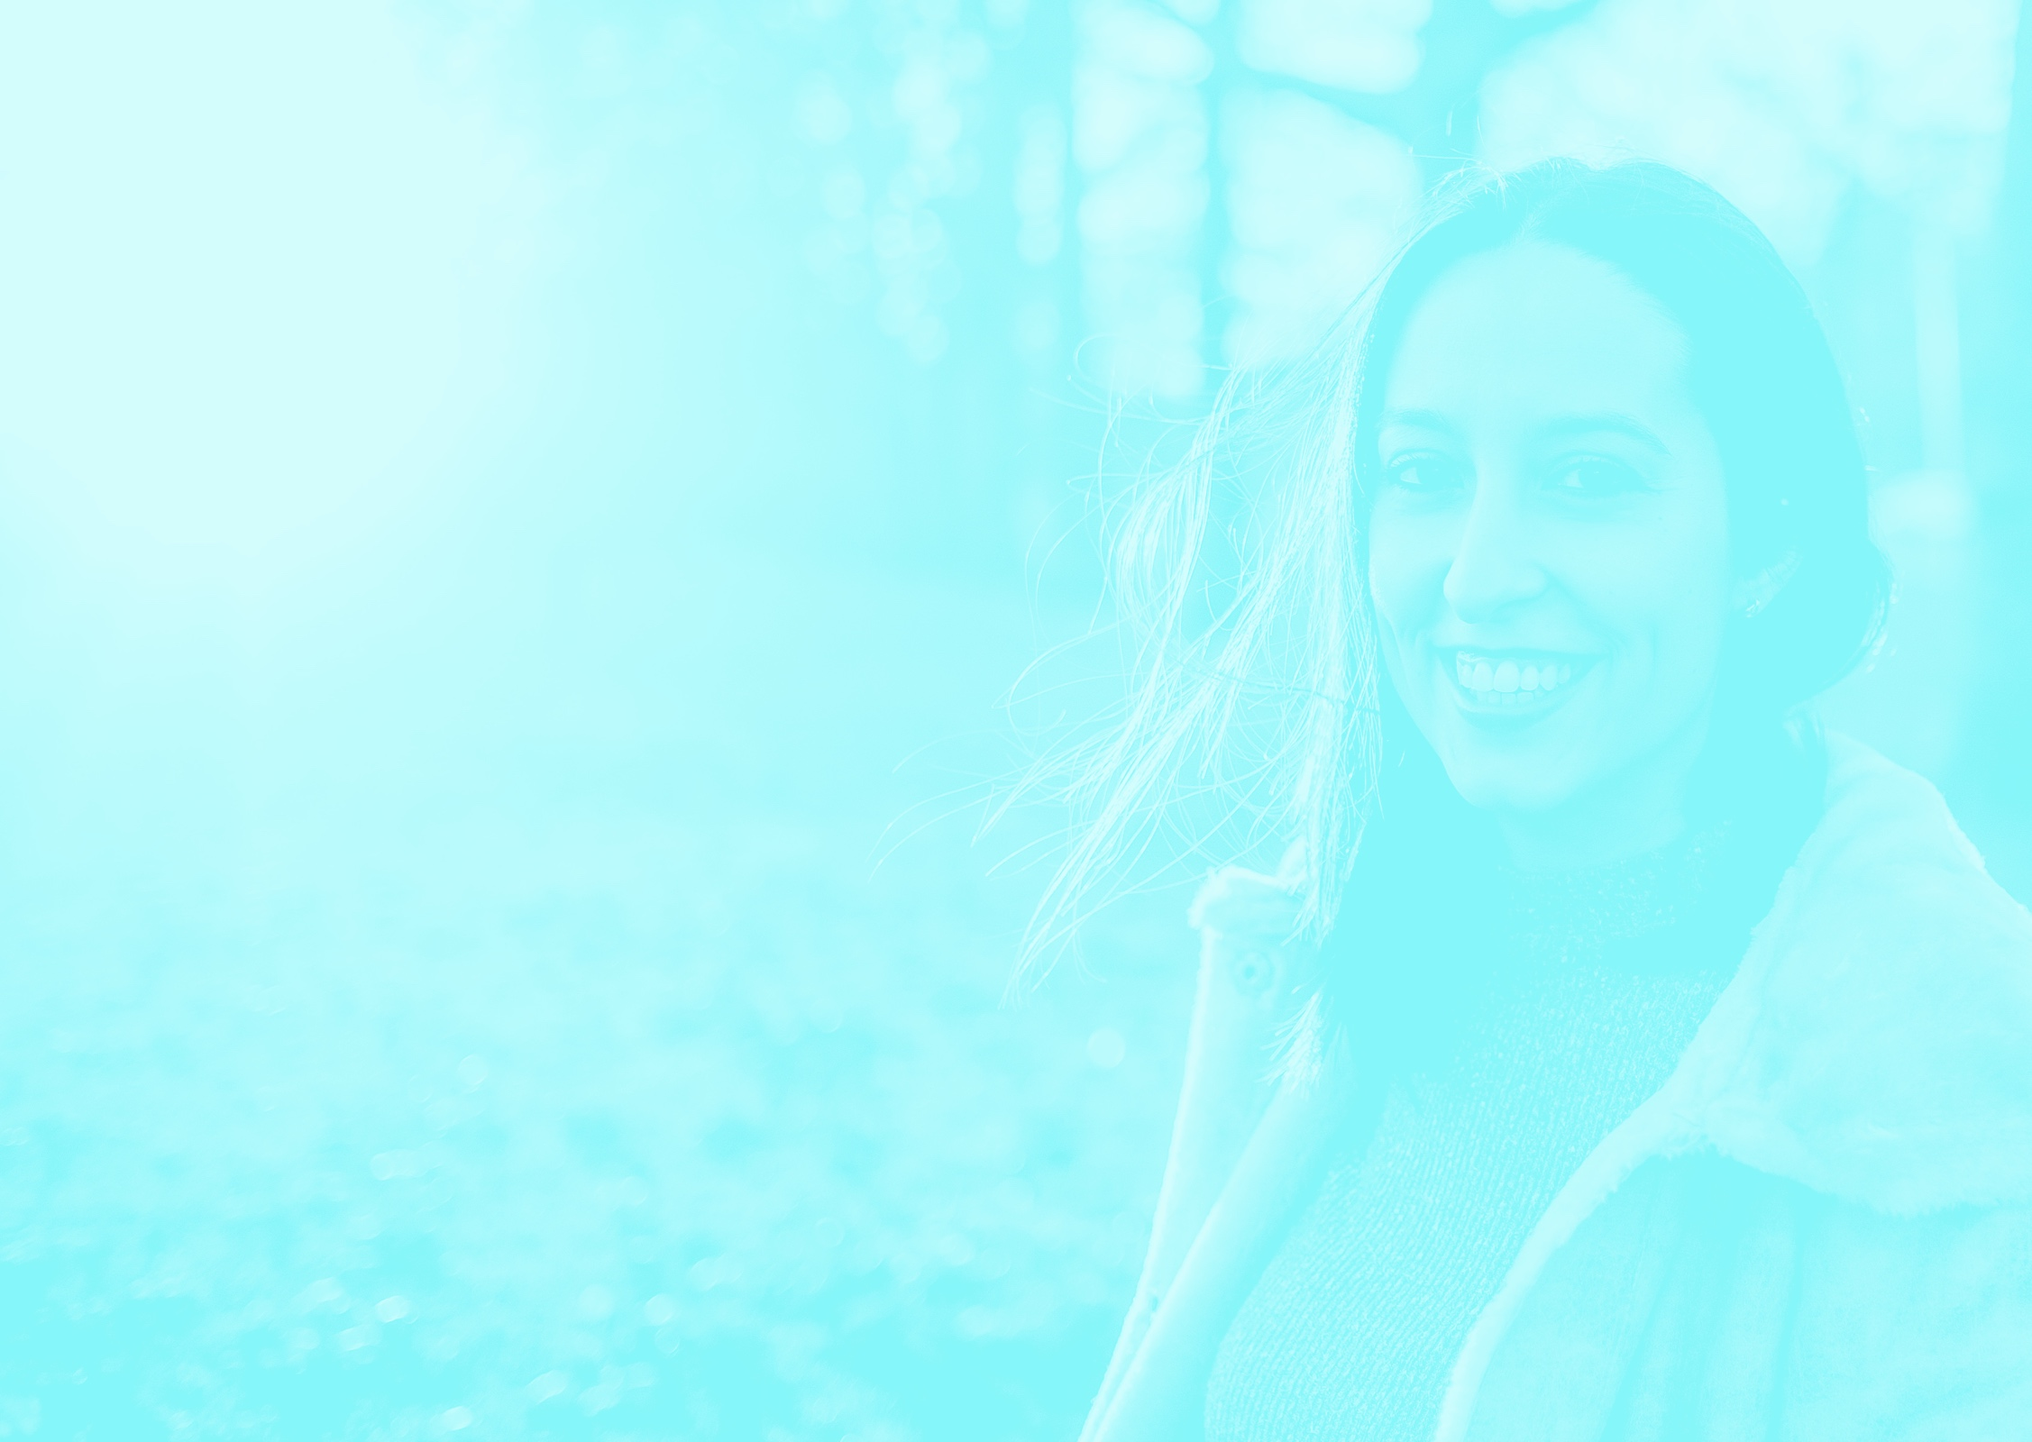
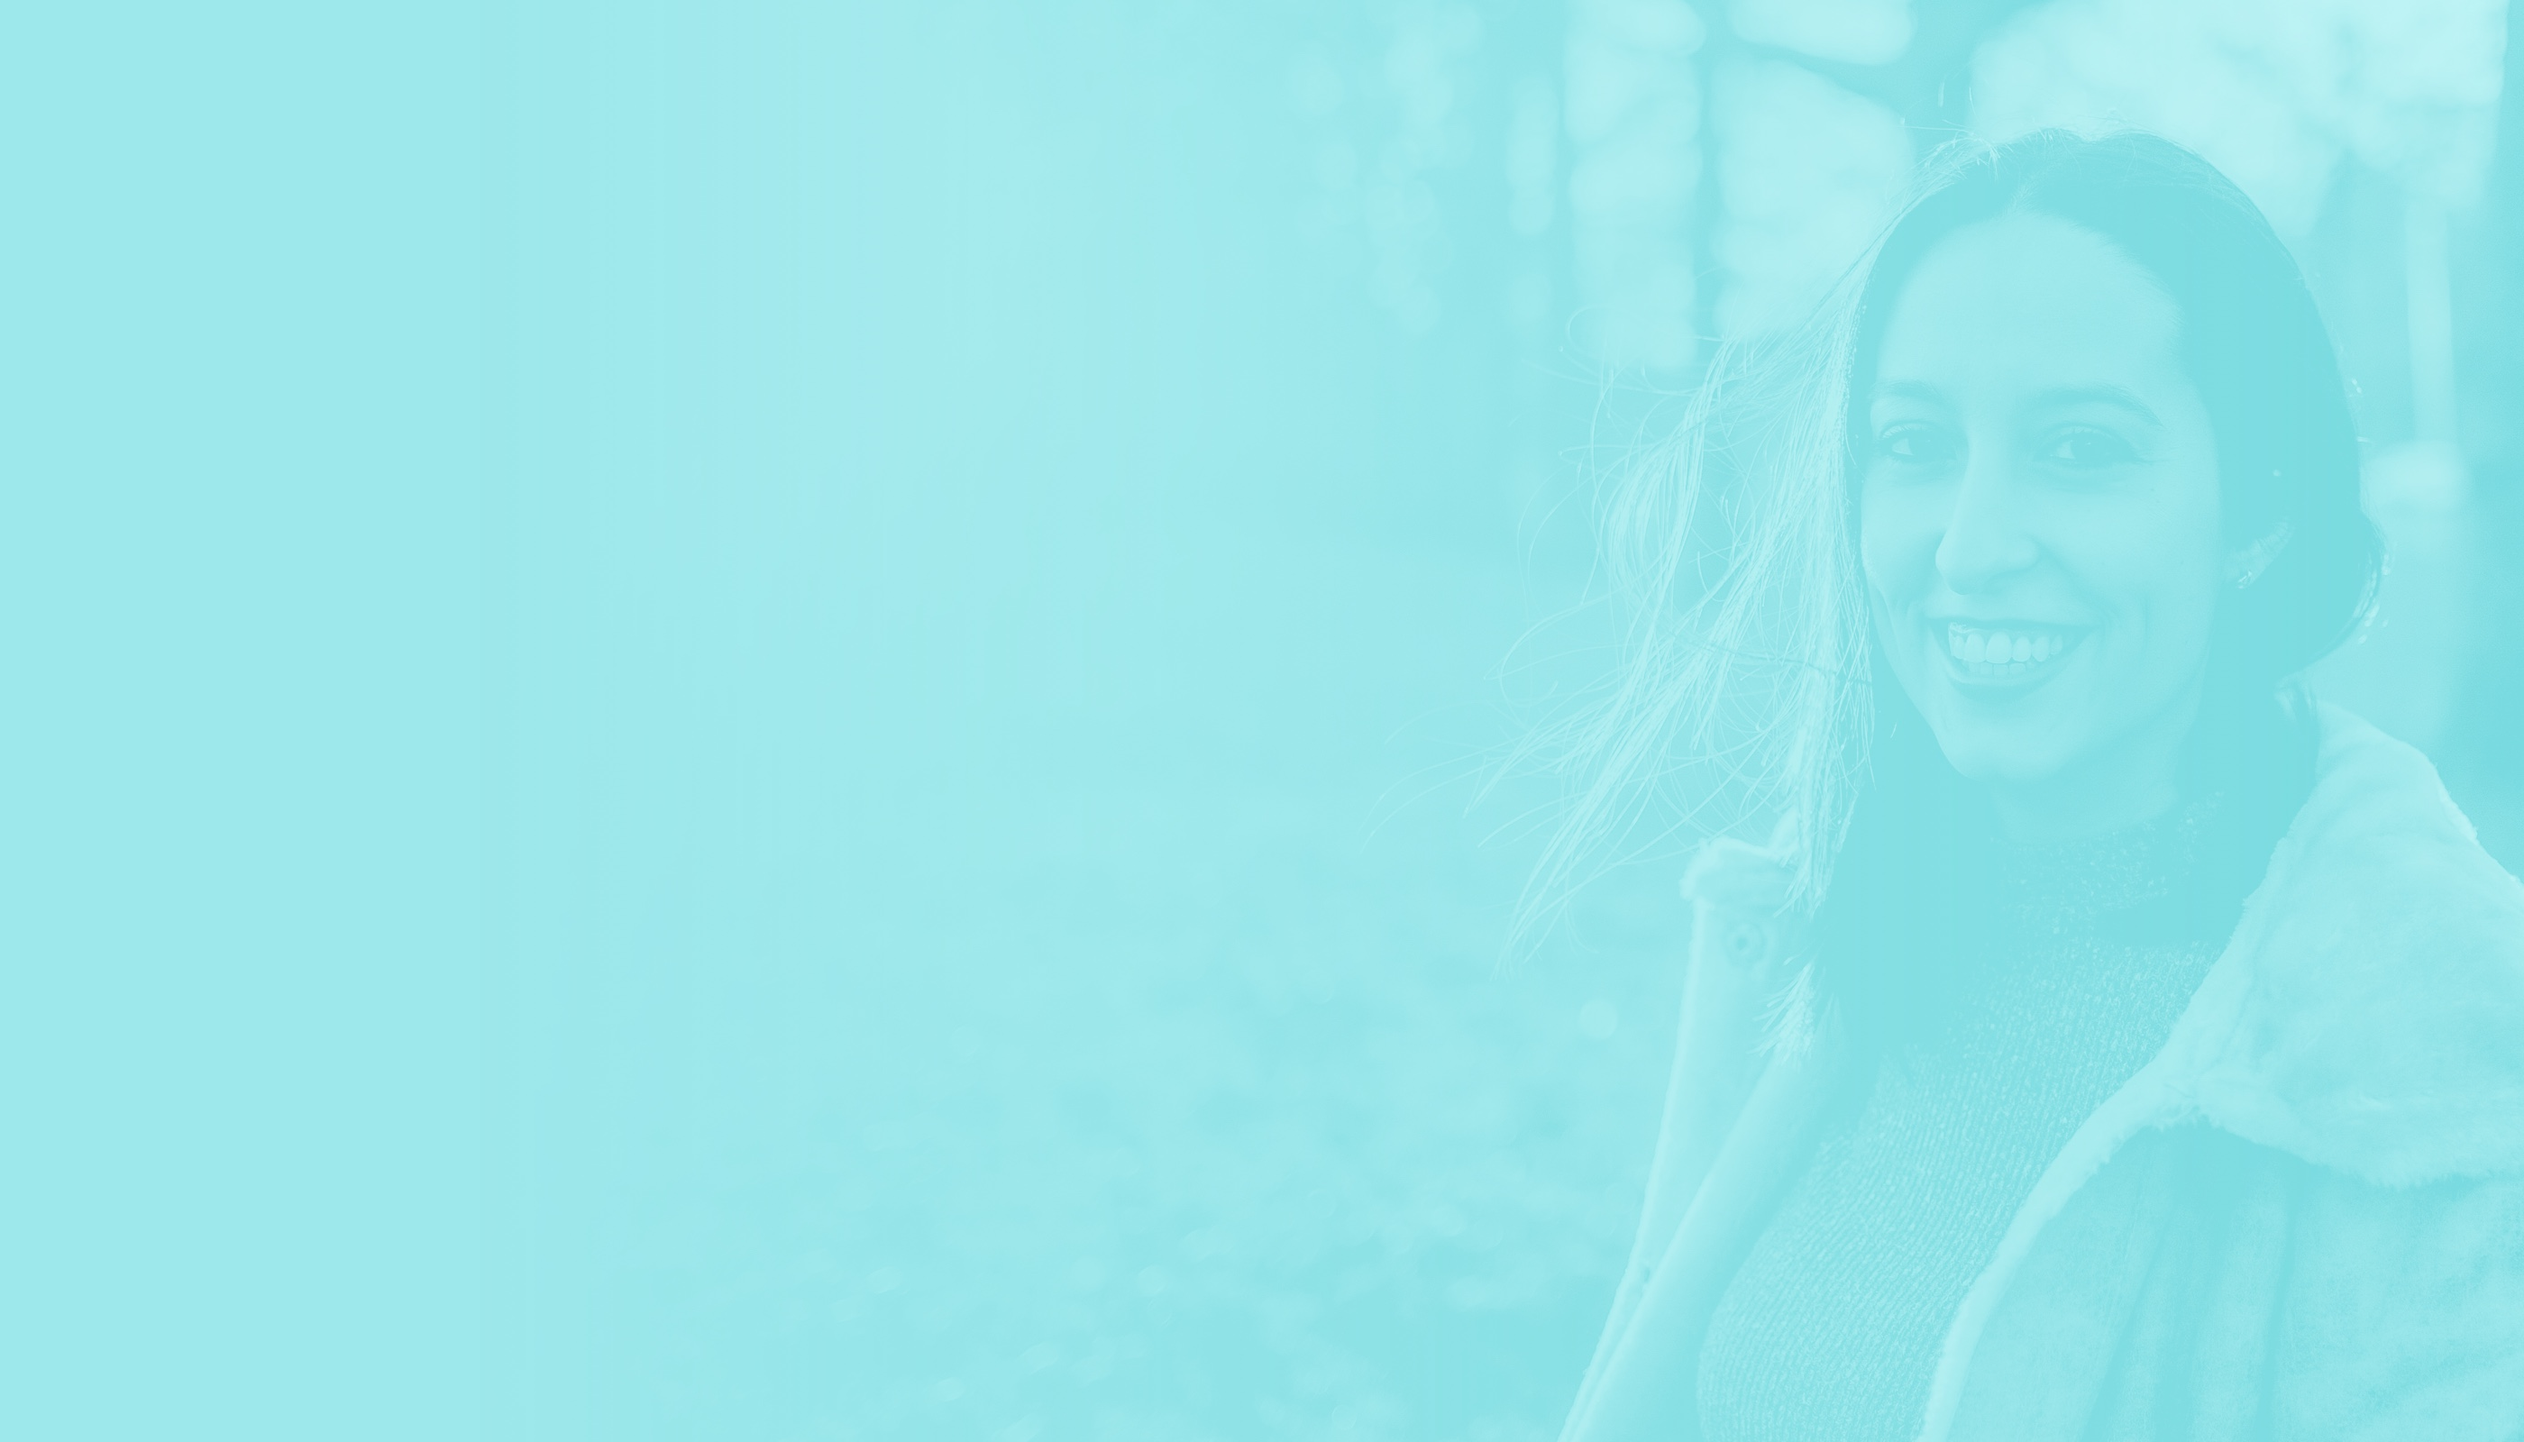
feat: New colors and cover

diff --git a/css/styles.css b/css/styles.css
@@ -11,7 +11,7 @@ body {
   height: 100%;
   display: flex;
   align-items: center;
-  background: linear-gradient(to right, #b1fafc, rgba(177, 250, 252, 0.0)), url(../images/cover-photo.jpg) no-repeat right center #b1fafc;
+  background: linear-gradient(to right, #9de8eb, rgba(157, 232, 235, 0.0)), url(../images/cover-photo.jpg) no-repeat right center #9de8eb;
   background-size: cover;
   padding: 0 10rem;
   margin: 0;
@@ -20,7 +20,7 @@ body {
 .container {
   max-width: 69rem;
   font: 1.8rem/1.56 'Source Sans Pro', sans-serif;
-  color: #324445;
+  color: #333333;
 }
 
 h1 {
